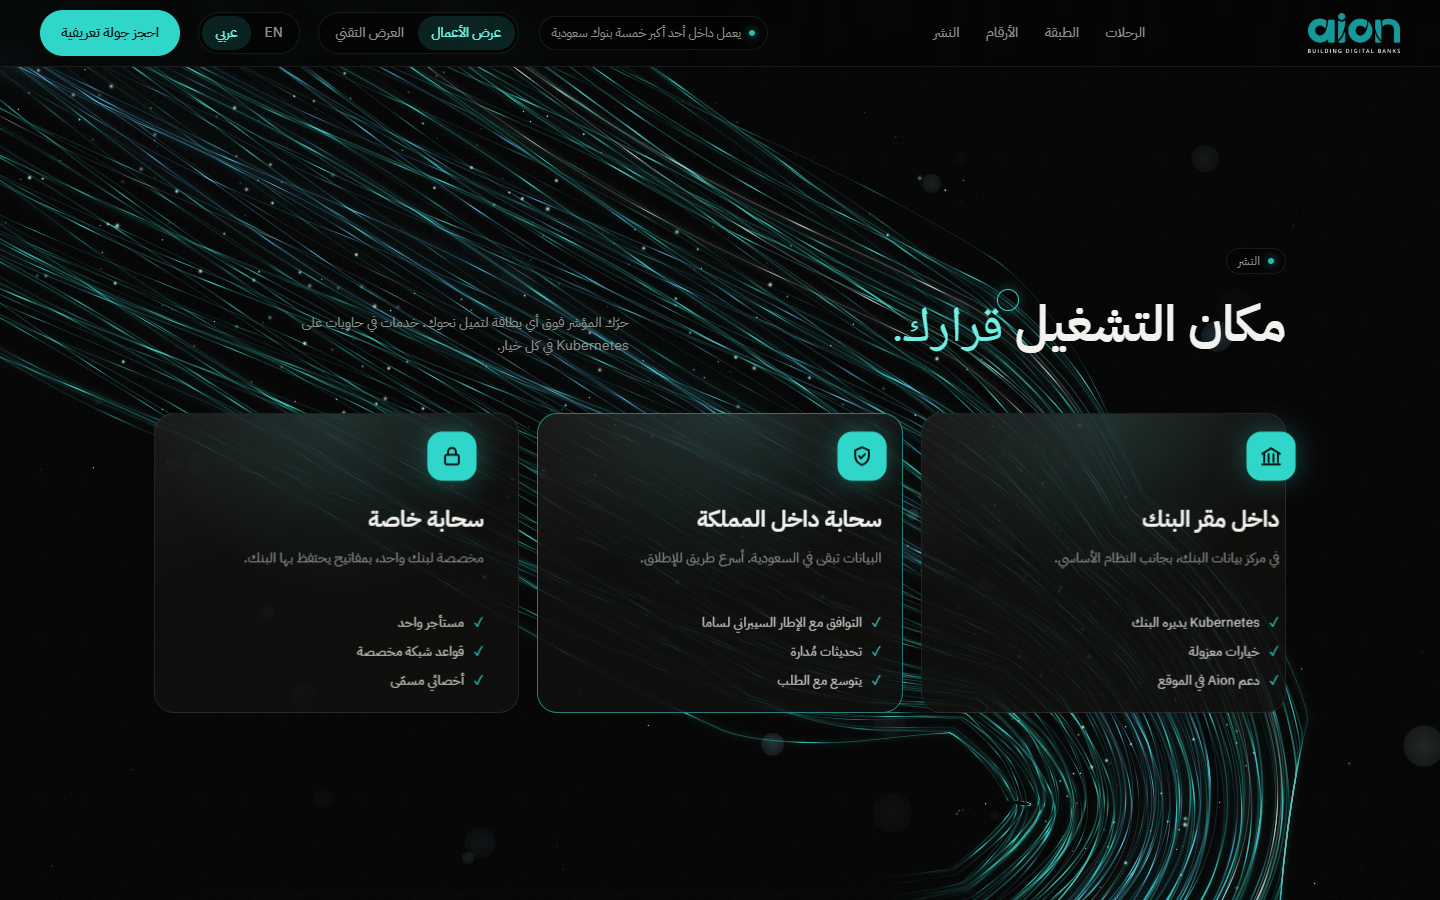
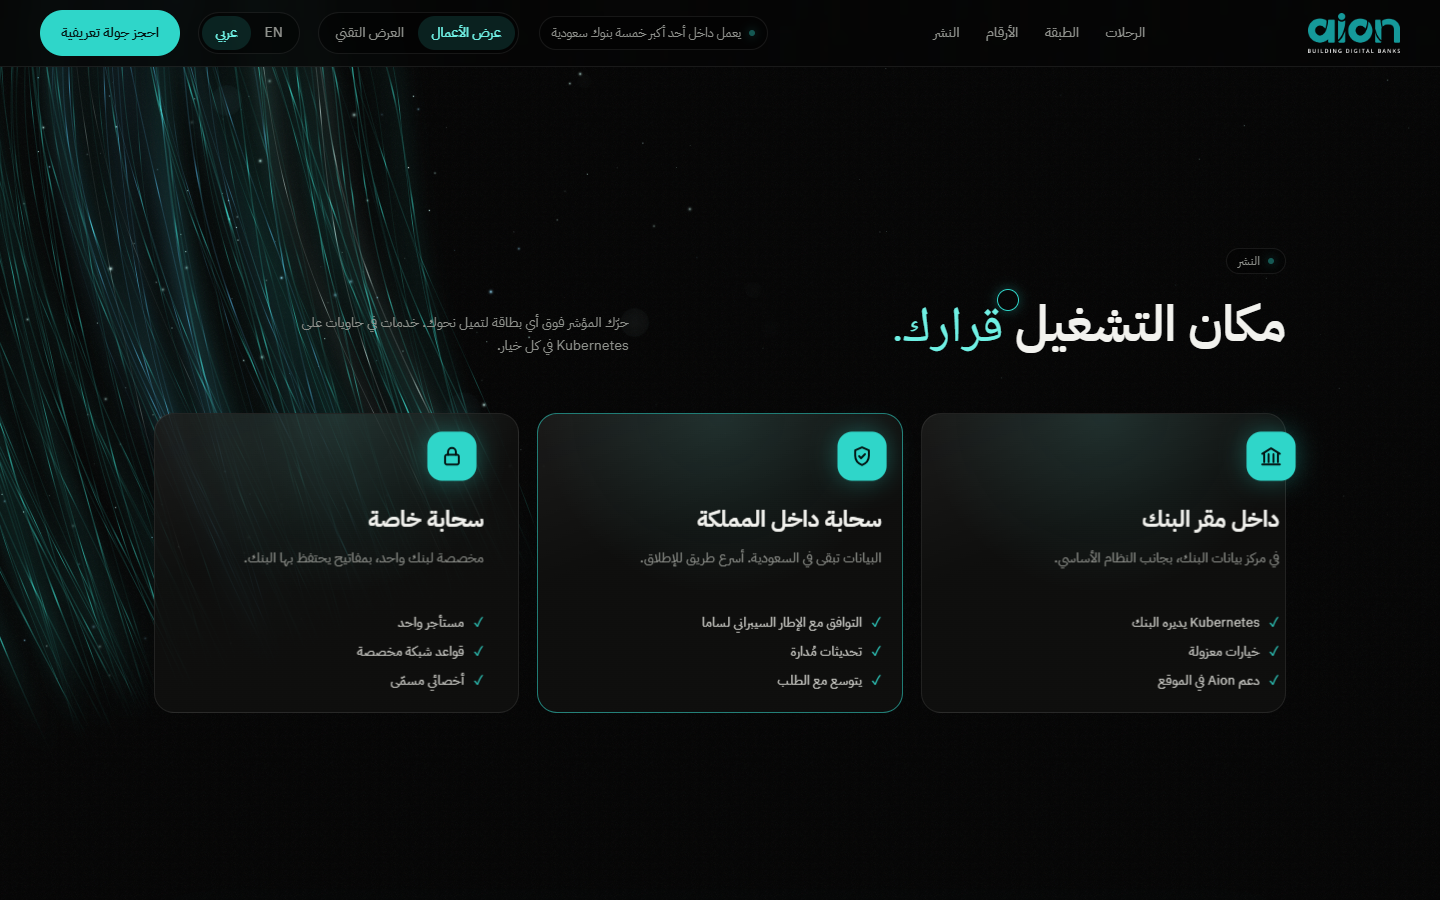
fixes

diff --git a/client-share/Aion Hero Mockups/theme-dark.js b/client-share/Aion Hero Mockups/theme-dark.js
@@ -154,7 +154,7 @@ void main(){
   else { hw=mix(70.,190.,1.-f); vW=0.; al=mix(.03,.07,1.-f); o=0.; }
   vec2 pos=a.xy+a.zw*(o+side*hw); pos.y-=uScroll;
   al*=1.+${gf(WV.boost.brighterGlow)}*uBoost;
-  if(uPass<.5) al*=1.+.6*(1.-sq)*step(uMergeFrom,a.y);   // wires merged at a turn glow brighter (below the hero only)
+  if(uPass<.5) al*=1.+.6*(1.-sq)*smoothstep(uMergeFrom,uMergeFrom+500.,a.y);   // wires merged at a turn glow brighter (below the hero only)
   vD=side*hw; vHW=hw; vA=al*headAt(a.y)*(1.+2.2*frontAt(a.y)*f); vC=aCol; vS=s; vPh=aS1.w; vSp=aS2.x;
   gl_Position=clip(pos);
 }`;
@@ -265,7 +265,7 @@ void main(){ float r2=dot(vUv,vUv); vec3 col=vCol; float a;
       if (WV.path.endSweep) {
         // one smooth sweep behind the closing card, then off the bottom (no tight corners)
         const last = cp[cp.length - 1];
-        const from = last[0] > 0.5 ? 1 : 0;
+        const from = (rtl ? 1 - last[0] : last[0]) > 0.5 ? 1 : 0;   // test the unmirrored side so Arabic mirrors the sweep
         cp.push([X(from ? 0.78 : 0.22), end.t - H * 0.2, 240, 1], [X(0.5), end.t + end.h * 0.5, 200, 0.9], [X(from ? 0.2 : 0.8), end.t + end.h + H * 0.3, 240, 1], [X(from ? 0.1 : 0.9), Math.max(docH, end.t + end.h) + H, 240, 1]);
       } else {
         cp.push([X(-0.25), end.t + 40, 230, 0.9], [X(0.45), end.t + end.h * 0.4, 90, 0.08], [X(1.25), end.t + end.h * 0.8, 240, 0.95], [X(0.5), Math.max(docH, end.t + end.h) + 300, 240, 1]);
@@ -287,7 +287,7 @@ void main(){ float r2=dot(vUv,vUv); vec3 col=vCol; float a;
         need -= d;
       }
       // the wires stay fully spread everywhere and gather into one bright bundle only right at each turn
-      const mg = clamp(Number(WV.path.mergeAtTurns) || 0, 0, 1); const mL = Math.max(60, Number(WV.path.mergeLength) || 220);
+      const mg = clamp(Number(WV.path.mergeAtTurns) || 0, 0, 1); const mLv = Number(WV.path.mergeLength); const mL = Number.isFinite(mLv) ? Math.max(60, mLv) : 220;
       if (mg > 0 && turns.length) for (const pt of pts) {
         let d2 = 1e18; for (const t of turns) { const dx = pt[0] - t[0]; const dy = pt[1] - t[1]; d2 = Math.min(d2, dx * dx + dy * dy); }
         const f = Math.exp(-d2 / (mL * mL));

diff --git a/client-share/Aion Landing Pages/theme-dark.js b/client-share/Aion Landing Pages/theme-dark.js
@@ -154,7 +154,7 @@ void main(){
   else { hw=mix(70.,190.,1.-f); vW=0.; al=mix(.03,.07,1.-f); o=0.; }
   vec2 pos=a.xy+a.zw*(o+side*hw); pos.y-=uScroll;
   al*=1.+${gf(WV.boost.brighterGlow)}*uBoost;
-  if(uPass<.5) al*=1.+.6*(1.-sq)*step(uMergeFrom,a.y);   // wires merged at a turn glow brighter (below the hero only)
+  if(uPass<.5) al*=1.+.6*(1.-sq)*smoothstep(uMergeFrom,uMergeFrom+500.,a.y);   // wires merged at a turn glow brighter (below the hero only)
   vD=side*hw; vHW=hw; vA=al*headAt(a.y)*(1.+2.2*frontAt(a.y)*f); vC=aCol; vS=s; vPh=aS1.w; vSp=aS2.x;
   gl_Position=clip(pos);
 }`;
@@ -265,7 +265,7 @@ void main(){ float r2=dot(vUv,vUv); vec3 col=vCol; float a;
       if (WV.path.endSweep) {
         // one smooth sweep behind the closing card, then off the bottom (no tight corners)
         const last = cp[cp.length - 1];
-        const from = last[0] > 0.5 ? 1 : 0;
+        const from = (rtl ? 1 - last[0] : last[0]) > 0.5 ? 1 : 0;   // test the unmirrored side so Arabic mirrors the sweep
         cp.push([X(from ? 0.78 : 0.22), end.t - H * 0.2, 240, 1], [X(0.5), end.t + end.h * 0.5, 200, 0.9], [X(from ? 0.2 : 0.8), end.t + end.h + H * 0.3, 240, 1], [X(from ? 0.1 : 0.9), Math.max(docH, end.t + end.h) + H, 240, 1]);
       } else {
         cp.push([X(-0.25), end.t + 40, 230, 0.9], [X(0.45), end.t + end.h * 0.4, 90, 0.08], [X(1.25), end.t + end.h * 0.8, 240, 0.95], [X(0.5), Math.max(docH, end.t + end.h) + 300, 240, 1]);
@@ -287,7 +287,7 @@ void main(){ float r2=dot(vUv,vUv); vec3 col=vCol; float a;
         need -= d;
       }
       // the wires stay fully spread everywhere and gather into one bright bundle only right at each turn
-      const mg = clamp(Number(WV.path.mergeAtTurns) || 0, 0, 1); const mL = Math.max(60, Number(WV.path.mergeLength) || 220);
+      const mg = clamp(Number(WV.path.mergeAtTurns) || 0, 0, 1); const mLv = Number(WV.path.mergeLength); const mL = Number.isFinite(mLv) ? Math.max(60, mLv) : 220;
       if (mg > 0 && turns.length) for (const pt of pts) {
         let d2 = 1e18; for (const t of turns) { const dx = pt[0] - t[0]; const dy = pt[1] - t[1]; d2 = Math.min(d2, dx * dx + dy * dy); }
         const f = Math.exp(-d2 / (mL * mL));

diff --git a/theme-dark.js b/theme-dark.js
@@ -154,7 +154,7 @@ void main(){
   else { hw=mix(70.,190.,1.-f); vW=0.; al=mix(.03,.07,1.-f); o=0.; }
   vec2 pos=a.xy+a.zw*(o+side*hw); pos.y-=uScroll;
   al*=1.+${gf(WV.boost.brighterGlow)}*uBoost;
-  if(uPass<.5) al*=1.+.6*(1.-sq)*step(uMergeFrom,a.y);   // wires merged at a turn glow brighter (below the hero only)
+  if(uPass<.5) al*=1.+.6*(1.-sq)*smoothstep(uMergeFrom,uMergeFrom+500.,a.y);   // wires merged at a turn glow brighter (below the hero only)
   vD=side*hw; vHW=hw; vA=al*headAt(a.y)*(1.+2.2*frontAt(a.y)*f); vC=aCol; vS=s; vPh=aS1.w; vSp=aS2.x;
   gl_Position=clip(pos);
 }`;
@@ -265,7 +265,7 @@ void main(){ float r2=dot(vUv,vUv); vec3 col=vCol; float a;
       if (WV.path.endSweep) {
         // one smooth sweep behind the closing card, then off the bottom (no tight corners)
         const last = cp[cp.length - 1];
-        const from = last[0] > 0.5 ? 1 : 0;
+        const from = (rtl ? 1 - last[0] : last[0]) > 0.5 ? 1 : 0;   // test the unmirrored side so Arabic mirrors the sweep
         cp.push([X(from ? 0.78 : 0.22), end.t - H * 0.2, 240, 1], [X(0.5), end.t + end.h * 0.5, 200, 0.9], [X(from ? 0.2 : 0.8), end.t + end.h + H * 0.3, 240, 1], [X(from ? 0.1 : 0.9), Math.max(docH, end.t + end.h) + H, 240, 1]);
       } else {
         cp.push([X(-0.25), end.t + 40, 230, 0.9], [X(0.45), end.t + end.h * 0.4, 90, 0.08], [X(1.25), end.t + end.h * 0.8, 240, 0.95], [X(0.5), Math.max(docH, end.t + end.h) + 300, 240, 1]);
@@ -287,7 +287,7 @@ void main(){ float r2=dot(vUv,vUv); vec3 col=vCol; float a;
         need -= d;
       }
       // the wires stay fully spread everywhere and gather into one bright bundle only right at each turn
-      const mg = clamp(Number(WV.path.mergeAtTurns) || 0, 0, 1); const mL = Math.max(60, Number(WV.path.mergeLength) || 220);
+      const mg = clamp(Number(WV.path.mergeAtTurns) || 0, 0, 1); const mLv = Number(WV.path.mergeLength); const mL = Number.isFinite(mLv) ? Math.max(60, mLv) : 220;
       if (mg > 0 && turns.length) for (const pt of pts) {
         let d2 = 1e18; for (const t of turns) { const dx = pt[0] - t[0]; const dy = pt[1] - t[1]; d2 = Math.min(d2, dx * dx + dy * dy); }
         const f = Math.exp(-d2 / (mL * mL));
